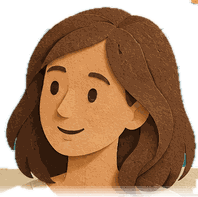
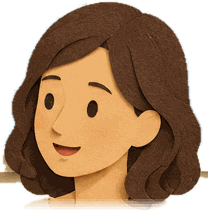
v2-pro preview: new consultant look in step 1
Claude-Session: https://claude.ai/code/session_01YFmgE8t31npEdtV1E44xiG

diff --git a/v2-pro/index.html b/v2-pro/index.html
@@ -159,10 +159,10 @@ p { margin: 0; }
 
 /* step 1 extras: the sea in the window rocks, a paper seagull crosses the sky */
 .stepimg .sea { position: absolute; overflow: hidden; pointer-events: none; }
-.stepimg .sea img { position: absolute; max-width: none; height: auto; transform-origin: 50% 50%; }
-.journey.live li.played .stepimg .sea img { animation: sea-rock 2.4s steps(1, end) infinite; }
-@keyframes sea-rock { 0% { transform: translate(0,0); } 25% { transform: translate(-1.2%, .8%); } 50% { transform: translate(-2.2%, 0); } 75% { transform: translate(-1%, -.8%); } 100% { transform: translate(0,0); } }
-.stepimg .gull { position: absolute; width: 5%; left: 33%; top: 6%; opacity: 0; pointer-events: none; }
+.stepimg .sea img { position: absolute; max-width: none; height: auto; }
+.journey.live li.played .stepimg .sea img { animation: sea-rock 3.2s ease-in-out infinite; }
+@keyframes sea-rock { 0%, 100% { transform: scale(1.1) translate(0,0); } 25% { transform: scale(1.1) translate(-.45%, .25%); } 50% { transform: scale(1.1) translate(-.8%, 0); } 75% { transform: scale(1.1) translate(-.35%, -.25%); } }
+.stepimg .gull { position: absolute; width: 5%; left: 31%; top: 13%; opacity: 0; pointer-events: none; }
 .stepimg .gull path { fill: #fbf7ef; stroke: #0c2f3a; stroke-width: 1.4; stroke-linejoin: round; }
 .stepimg .gull .w2 { display: none; }
 .journey.live li.played .stepimg .gull { animation: gull-fly 6s steps(1, end) 1.6s infinite; }
@@ -170,7 +170,7 @@ p { margin: 0; }
 .journey.live li.played .stepimg .gull .w2 { display: block; animation: flap-b .5s steps(1, end) infinite; }
 @keyframes flap-a { 0% { opacity: 1; } 50% { opacity: 0; } }
 @keyframes flap-b { 0% { opacity: 0; } 50% { opacity: 1; } }
-@keyframes gull-fly { 0% { opacity: 0; left: 32%; top: 7%; } 4% { opacity: 1; left: 33%; top: 6%; } 12% { left: 38%; top: 4.5%; } 20% { left: 43%; top: 6%; } 28% { left: 48%; top: 4%; } 36% { left: 53%; top: 5.5%; } 44% { left: 58%; top: 3.5%; } 52% { left: 62%; top: 5%; } 60% { left: 67%; top: 3%; opacity: 1; } 64% { opacity: 0; } 100% { opacity: 0; } }
+@keyframes gull-fly { 0% { opacity: 0; left: 31%; top: 13%; } 4% { opacity: 1; left: 32%; top: 12%; } 14% { left: 35%; top: 9%; } 24% { left: 38%; top: 11%; } 34% { left: 41%; top: 8%; } 44% { left: 44%; top: 10%; } 54% { left: 47%; top: 7.5%; } 62% { left: 49.5%; top: 9%; opacity: 1; } 66% { opacity: 0; } 100% { opacity: 0; } }
 
 /* step 2: the magnifying glass tours the map; a school pops up at each pin */
 .stepimg .card { position: absolute; height: auto; opacity: 0; transform: scale(.6); pointer-events: none; filter: drop-shadow(0 3px 4px rgba(12,47,58,.25)); }
@@ -458,7 +458,7 @@ footer .base { margin-top: 40px; padding-top: 18px; border-top: 1px solid rgba(2
       <div>
         <div class="journey" id="journey"><span class="track" aria-hidden="true"><span class="fill"></span><span class="dot"></span></span>
         <ol class="process">
-          <li><span class="n">1</span><h3><span class="en">A free conversation</span><span class="zh">免费沟通</span></h3><p><span class="en">Tell us about age, grades, English level, budget and goals, by WeChat call or in person.</span><span class="zh">通过微信语音或面谈，聊聊年龄、成绩、英语水平、预算和目标。</span><span class="who"><span class="en">With Oriwis</span><span class="zh">Oriwis 陪同</span></span></p><div class="stepimg"><div class="scene"><img class="base" src="images/v2/step1.jpg" alt="Paper-cut illustration: a consultant talking with a mother and her daughter at a table" width="960" height="640" loading="lazy"><div class="sea" style="left:31.667%;top:20.938%;width:41.875%;height:21.250%"><img src="images/v2/step1.jpg" alt="" style="width:238.806%;left:-75.622%;top:-98.529%"></div><svg class="gull" viewBox="0 0 40 20" aria-hidden="true"><path class="w1" d="M2 12 Q10 2 20 11 Q30 2 38 12 Q30 7 20 14 Q10 7 2 12Z"/><path class="w2" d="M3 6 Q11 13 20 11 Q29 13 37 6 Q29 15 20 15 Q11 15 3 6Z"/></svg><div class="pc b1" style="left:0.000%;top:40.781%;width:32.917%;transform-origin:41.8% 98.6%"><img class="bimg" src="images/v2/step1-b1.png" alt="" loading="lazy"><img class="arm" src="images/v2/step1-arm.png" alt="" loading="lazy" style="left:75.633%;top:27.982%;width:40.506%;transform-origin:18.0% 85.7%"><img class="head h1" src="images/v2/step1-h1.png" alt="" loading="lazy" style="left:11.076%;top:-75.229%;width:62.342%;transform-origin:66.0% 96.5%"></div><div class="pc b2" style="left:40.521%;top:45.000%;width:26.250%;transform-origin:50.0% 99.4%"><img class="bimg" src="images/v2/step1-b2.png" alt="" loading="lazy"><img class="head h2" src="images/v2/step1-h2.png" alt="" loading="lazy" style="left:13.889%;top:-107.602%;width:78.571%;transform-origin:49.5% 98.5%"></div><div class="pc b3" style="left:72.604%;top:44.844%;width:26.458%;transform-origin:47.6% 99.5%"><img class="bimg" src="images/v2/step1-b3.png" alt="" loading="lazy"><img class="head h3" src="images/v2/step1-h3.png" alt="" loading="lazy" style="left:23.228%;top:-71.739%;width:75.591%;transform-origin:29.2% 99.4%"></div></div></div></li>
+          <li><span class="n">1</span><h3><span class="en">A free conversation</span><span class="zh">免费沟通</span></h3><p><span class="en">Tell us about age, grades, English level, budget and goals, by WeChat call or in person.</span><span class="zh">通过微信语音或面谈，聊聊年龄、成绩、英语水平、预算和目标。</span><span class="who"><span class="en">With Oriwis</span><span class="zh">Oriwis 陪同</span></span></p><div class="stepimg"><div class="scene"><img class="base" src="images/v2/step1.jpg" alt="Paper-cut illustration: a consultant with a short black bob, in a navy blazer, talking with a mother and her daughter at a table" width="960" height="640" loading="lazy"><div class="sea" style="left:30.312%;top:15.000%;width:22.396%;height:25.000%"><img src="images/v2/step1.jpg" alt="" style="width:446.512%;left:-135.349%;top:-60.000%;transform-origin:41.51% 27.50%"></div><div class="sea" style="left:54.583%;top:17.500%;width:21.562%;height:22.500%"><img src="images/v2/step1.jpg" alt="" style="width:463.768%;left:-253.140%;top:-77.778%;transform-origin:65.36% 28.75%"></div><svg class="gull" viewBox="0 0 40 20" aria-hidden="true"><path class="w1" d="M2 12 Q10 2 20 11 Q30 2 38 12 Q30 7 20 14 Q10 7 2 12Z"/><path class="w2" d="M3 6 Q11 13 20 11 Q29 13 37 6 Q29 15 20 15 Q11 15 3 6Z"/></svg><div class="pc b1" style="left:0.000%;top:46.094%;width:31.562%;transform-origin:46.2% 99.6%"><img class="bimg" src="images/v2/step1-b1.png" alt="" loading="lazy"><img class="arm" src="images/v2/step1-arm.png" alt="" loading="lazy" style="left:86.139%;top:21.983%;width:36.964%;transform-origin:22.3% 85.4%"><img class="head h1" src="images/v2/step1-h1.png" alt="" loading="lazy" style="left:14.191%;top:-76.293%;width:61.716%;transform-origin:62.6% 98.9%"></div><div class="pc b2" style="left:38.646%;top:47.500%;width:28.958%;transform-origin:50.0% 98.6%"><img class="bimg" src="images/v2/step1-b2.png" alt="" loading="lazy"><img class="head h2" src="images/v2/step1-h2.png" alt="" loading="lazy" style="left:17.626%;top:-92.417%;width:74.820%;transform-origin:49.0% 99.5%"></div><div class="pc b3" style="left:72.604%;top:49.375%;width:26.875%;transform-origin:47.7% 98.4%"><img class="bimg" src="images/v2/step1-b3.png" alt="" loading="lazy"><img class="head h3" src="images/v2/step1-h3.png" alt="" loading="lazy" style="left:23.256%;top:-61.200%;width:74.806%;transform-origin:30.1% 99.4%"></div></div></div></li>
           <li><span class="n">2</span><h3><span class="en">Your shortlist</span><span class="zh">匹配清单</span></h3><p><span class="en">A short list of suitable UK schools or courses, with entry requirements and timing explained.</span><span class="zh">一份适合你的英国学校或课程清单，讲清入学要求和时间安排。</span><span class="who"><span class="en">With Oriwis</span><span class="zh">Oriwis 陪同</span></span></p><div class="stepimg"><div class="scene"><img class="base" src="images/v2/step2.jpg" alt="Paper-cut illustration: a magnifying glass moves over a map of the UK and finds schools in Scotland, the Midlands and London" width="960" height="640" loading="lazy"><img class="card cardA" src="images/v2/step2-cardA.png" alt="" loading="lazy" style="left:62.500%;top:6.562%;width:26.042%"><img class="card cardC" src="images/v2/step2-cardC.png" alt="" loading="lazy" style="left:12.500%;top:39.062%;width:22.396%"><img class="card cardB" src="images/v2/step2-cardB.png" alt="" loading="lazy" style="left:70.000%;top:51.562%;width:26.042%"><svg class="mag" viewBox="0 0 120 120" aria-hidden="true"><rect x="74" y="70" width="16" height="52" rx="7" transform="rotate(-45 82 96)" fill="#1e4a63"/><rect x="77" y="73" width="6" height="40" rx="3" transform="rotate(-45 80 93)" fill="#2f6582"/><circle cx="48" cy="48" r="38" fill="rgba(255,255,255,.22)" stroke="#1e4a63" stroke-width="10"/><circle cx="48" cy="48" r="31" fill="none" stroke="#8fc6c9" stroke-width="3"/><path d="M30 30 Q38 22 50 22" fill="none" stroke="#fff" stroke-width="5" stroke-linecap="round" opacity=".75"/></svg></div></div></li>
           <li class="you"><span class="n">3</span><h3><span class="en">Introduction to the school</span><span class="zh">对接学校</span></h3><p><span class="en">We introduce you to the school or its official partner. You apply and pay them directly.</span><span class="zh">我们为你介绍学校或其官方合作方，申请与缴费由你直接完成。</span><span class="who"><span class="en">You and the school</span><span class="zh">你与学校</span></span></p><div class="stepimg"><div class="scene"><img class="base" src="images/v2/step3.jpg" alt="Paper-cut illustration: a student and her mother welcomed at a British school gate" width="960" height="640" loading="lazy"><div class="bang" style="left:52.083%;top:61.250%"><i class="rays"></i><i class="cf c" style="--dx:-5.96;--dy:13.77;--r:-136deg;background:#f0a93b"></i><i class="cf r" style="--dx:-10.68;--dy:15.70;--r:27deg;background:#0f7f8c"></i><i class="cf r" style="--dx:-17.86;--dy:9.06;--r:-51deg;background:#ef6f5e"></i><i class="cf c" style="--dx:-13.63;--dy:4.02;--r:-125deg;background:#ffffff"></i><i class="cf r" style="--dx:-14.92;--dy:-3.67;--r:-130deg;background:#8fd0c9"></i><i class="cf r" style="--dx:-8.59;--dy:-9.48;--r:-46deg;background:#f0a93b"></i><i class="cf c" style="--dx:-9.95;--dy:-17.72;--r:-129deg;background:#0c2f3a"></i><i class="cf r" style="--dx:-5.51;--dy:-18.50;--r:-47deg;background:#f0a93b"></i><i class="cf r" style="--dx:-5.13;--dy:-26.38;--r:-12deg;background:#0f7f8c"></i><i class="cf c" style="--dx:1.85;--dy:-22.34;--r:132deg;background:#ef6f5e"></i><i class="cf r" style="--dx:6.73;--dy:-24.84;--r:-68deg;background:#ffffff"></i><i class="cf r" style="--dx:8.91;--dy:-18.71;--r:-64deg;background:#8fd0c9"></i><i class="cf c" style="--dx:12.66;--dy:-12.29;--r:-128deg;background:#f0a93b"></i><i class="cf r" style="--dx:15.44;--dy:-5.20;--r:94deg;background:#0c2f3a"></i><i class="cf r" style="--dx:13.75;--dy:2.27;--r:0deg;background:#f0a93b"></i><i class="cf c" style="--dx:17.90;--dy:9.52;--r:25deg;background:#0f7f8c"></i><i class="cf r" style="--dx:14.70;--dy:14.66;--r:-36deg;background:#ef6f5e"></i><i class="cf r" style="--dx:8.56;--dy:13.67;--r:93deg;background:#ffffff"></i></div></div></div></li>
         </ol></div>
@@ -556,7 +556,7 @@ footer .base { margin-top: 40px; padding-top: 18px; border-top: 1px solid rgba(2
         <p class="legal"><span class="en">Oriwis provides study-abroad information matching, preliminary consultations and referrals only. We are not a study-abroad agency. We do not handle admissions, collect fees from students, or sign admission guarantee agreements. Students register, pay and complete all procedures directly with the school or its overseas partner.</span><span class="zh">Oriwis 仅提供留学信息匹配、初步咨询与转介服务，不是留学中介机构。我们不代办入学申请，不向学生收取费用，不签署任何录取担保协议。学生最终直接向学校或海外合作方注册、缴费并办理相关手续。</span></p>
       </div>
     </div>
-    <div class="base"><span>© <span id="yr">2026</span> Oriwis · Preview 23 Nov 01:42</span><span><span class="en">Photos are AI-generated illustrations, not real students or schools.</span><span class="zh">网站图片为 AI 生成的示意图，并非真实学生或学校。</span></span></div>
+    <div class="base"><span>© <span id="yr">2026</span> Oriwis · Preview 23 Nov 01:46</span><span><span class="en">Photos are AI-generated illustrations, not real students or schools.</span><span class="zh">网站图片为 AI 生成的示意图，并非真实学生或学校。</span></span></div>
   </div>
 </footer>
 
